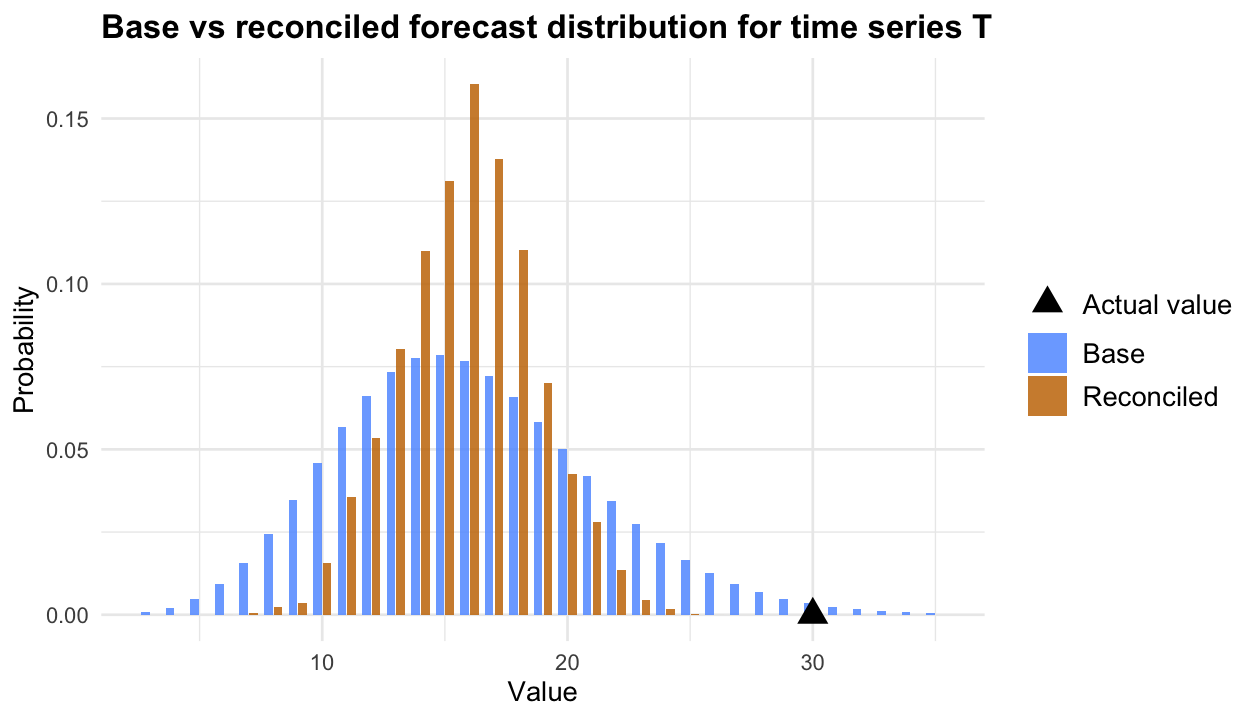
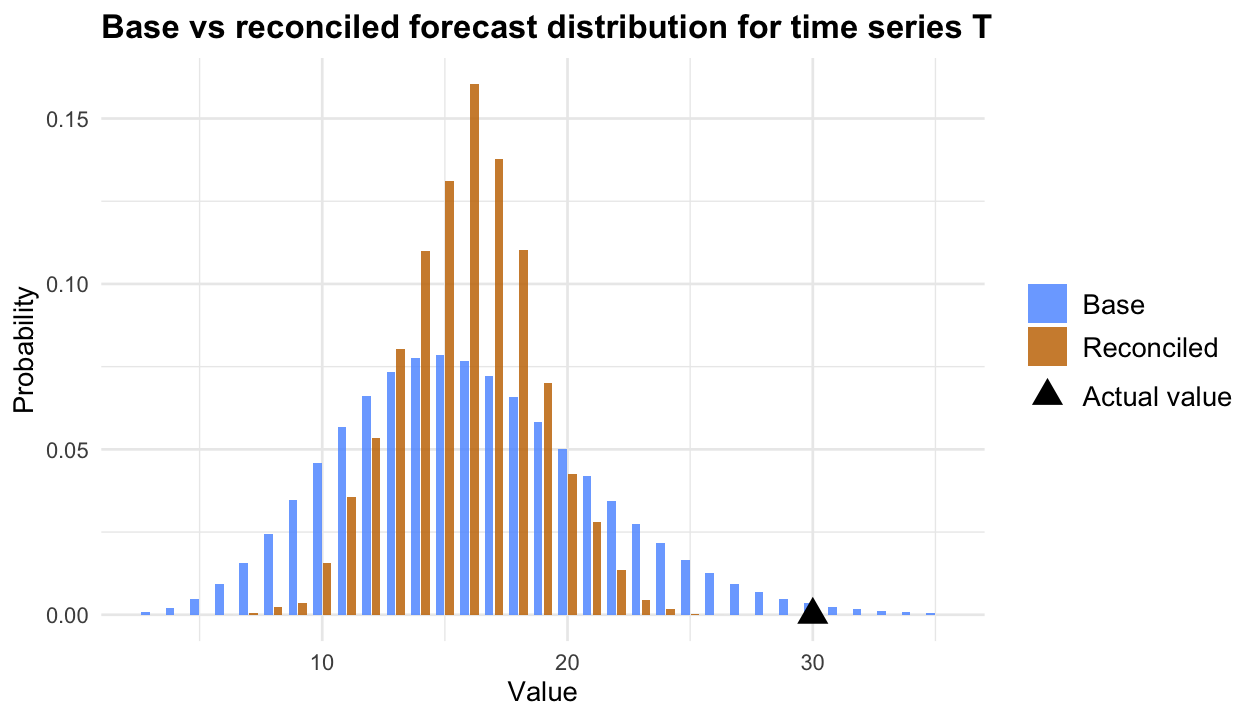
updated Readme

Changed region(s): [[0.8048, 0.3972, 0.9905, 0.5806]]

diff --git a/README.md b/README.md
@@ -14,7 +14,6 @@ experimental](https://img.shields.io/badge/lifecycle-experimental-orange.svg)](h
 Status](https://coveralls.io/repos/github/dazzimonti/fable.bayesRecon/badge.svg?branch=main)](https://coveralls.io/github/dazzimonti/fable.bayesRecon?branch=main)
 [![License: LGPL (\>=
 3)](https://img.shields.io/badge/license-LGPL%20(%3E%3D%203)-yellow.svg)](https://www.gnu.org/licences/lgpl-3.0)
-[![R-CMD-check](https://github.com/dazzimonti/fable.bayesRecon/actions/workflows/R-CMD-check.yaml/badge.svg)](https://github.com/dazzimonti/fable.bayesRecon/actions/workflows/R-CMD-check.yaml)
 <!-- badges: end -->
 
 The package `fable.bayesRecon` integrates the probabilistic
@@ -31,15 +30,17 @@ The reconciliation functions are:
 - `bayesRecon_t`: reconciliation via conditioning with uncertain
   covariance matrix; the reconciled forecasts are multivariate
   Student-t; this is done analytically.
-- `bayesRecon_BUIS`: reconciliation via conditioning of any
-  probabilistic forecast via importance sampling; this is the
-  recommended option for non-Gaussian base forecasts;
+- `bayesRecon_BUIS`: reconciliation via importance sampling, applicable
+  to any probabilistic forecast; this is the recommended option for
+  non-Gaussian base forecasts;
 - `bayesRecon_MixCond`: reconciliation via conditioning of mixed
   hierarchies, where the upper forecasts are multivariate Gaussian and
-  the bottom forecasts are discrete distributions;
+  the bottom forecasts are discrete distributions; recommended for
+  moderately sized hierarchies;
 - `bayesRecon_TDcond`: reconciliation via top-down conditioning of mixed
   hierarchies, where the upper forecasts are multivariate Gaussian and
-  the bottom forecasts are discrete distributions;
+  the bottom forecasts are discrete distributions; recommended for large
+  hierarchies;
 
 ## News
 
@@ -72,11 +73,11 @@ The package follows the standard `fable` workflow:
 3.  Specify the reconciliation strategy inside `reconcile()`.
 4.  Produce reconciled probabilistic forecasts with `forecast()`.
 
-We provide in [the vignette
-fable.bayesRecon](https://cran.r-project.org/web/packages/fable.bayesRecon/vignettes/fable.bayesRecon.html)
-a simple usage example; refer to the package documentation for more
-details on the reconciliation methods and their parameters. See the book
-Hyndman and Athanasopoulos (2021) for a general introduction to
+The vignette
+[fable.bayesRecon](https://cran.r-project.org/web/packages/fable.bayesRecon/vignettes/fable.bayesRecon.html)
+provides a simple usage example; refer to the package documentation for
+more details on the reconciliation methods and their parameters. See the
+book Hyndman and Athanasopoulos (2021) for a general introduction to
 forecasting with `fable` and `fabletools`.
 
 ## Getting help
@@ -86,7 +87,7 @@ If you encounter a bug, please file a minimal reproducible example on
 
 ## Examples from `bayesRecon`
 
-In this section we reproduce the examples found `bayesRecon`’s Readme
+In this section we reproduce the examples found in `bayesRecon`’s README
 file in the fable framework. You can use this section as a guiding
 example to convert your code from `bayesRecon` to `fable.bayesRecon`.
 
@@ -153,7 +154,7 @@ library(fable.bayesRecon)
 
 fit <- data |>
   model(base = ETS(value)) |> # fit ETS model
-  reconcile(t = bayesRecon_t(base,freq =1),                 # Reconcile with t-Rec
+  reconcile(t = bayesRecon_t(base, freq = 1),               # Reconcile with t-Rec
             mint = min_trace(base))                         # Reconcile with MinT
 
 fit |> knitr::kable()
@@ -169,8 +170,8 @@ fit |> knitr::kable()
 | B            | <aggregated> | \<ETS(A,N,N)\> | \<ETS(A,N,N)\> | \<ETS(A,N,N)\> |
 | <aggregated> | <aggregated> | \<ETS(A,N,N)\> | \<ETS(A,N,N)\> | \<ETS(A,N,N)\> |
 
-For simplicity, we only compute one-step-ahead forecasts, by changing
-the value in the parameter `h` below we can compute multi-step-ahead
+For simplicity, we only compute one-step-ahead forecasts; by changing
+the value of the parameter `h` below, we can compute multi-step-ahead
 forecasts with the same code.
 
 ``` r
@@ -195,7 +196,7 @@ densities.
 
 ### Example 2: discrete forecast distributions
 
-We consider the same hierarchy of Example 1; however, we assume that the
+We consider the same hierarchy as Example 1; however, we assume that the
 base forecasts are discrete, which is a common choice for count time
 series.
 
@@ -251,12 +252,12 @@ desired summary (mean, quantiles, etc.) can be computed.
 library(fable.intermittent)
 
 fit <- data |>
-  model(base = GAMPOISB(value)) |>          # fit GAMPOISB for the full hierarchy
-  reconcile(buis = bayesRecon_BUIS(base))   # reconcile with BUIS
+  model(base = GAMPOISB(value)) |>        # fit GAMPOISB for the full hierarchy
+  reconcile(buis = bayesRecon_BUIS(base)) # reconcile with BUIS
 ```
 
-For simplicity, we only compute one-step-ahead forecasts, by changing
-the value in the parameter `h` below we can compute multi-step-ahead
+For simplicity, we only compute one-step-ahead forecasts; by changing
+the value of the parameter `h` below, we can compute multi-step-ahead
 forecasts with the same code.
 
 ``` r
